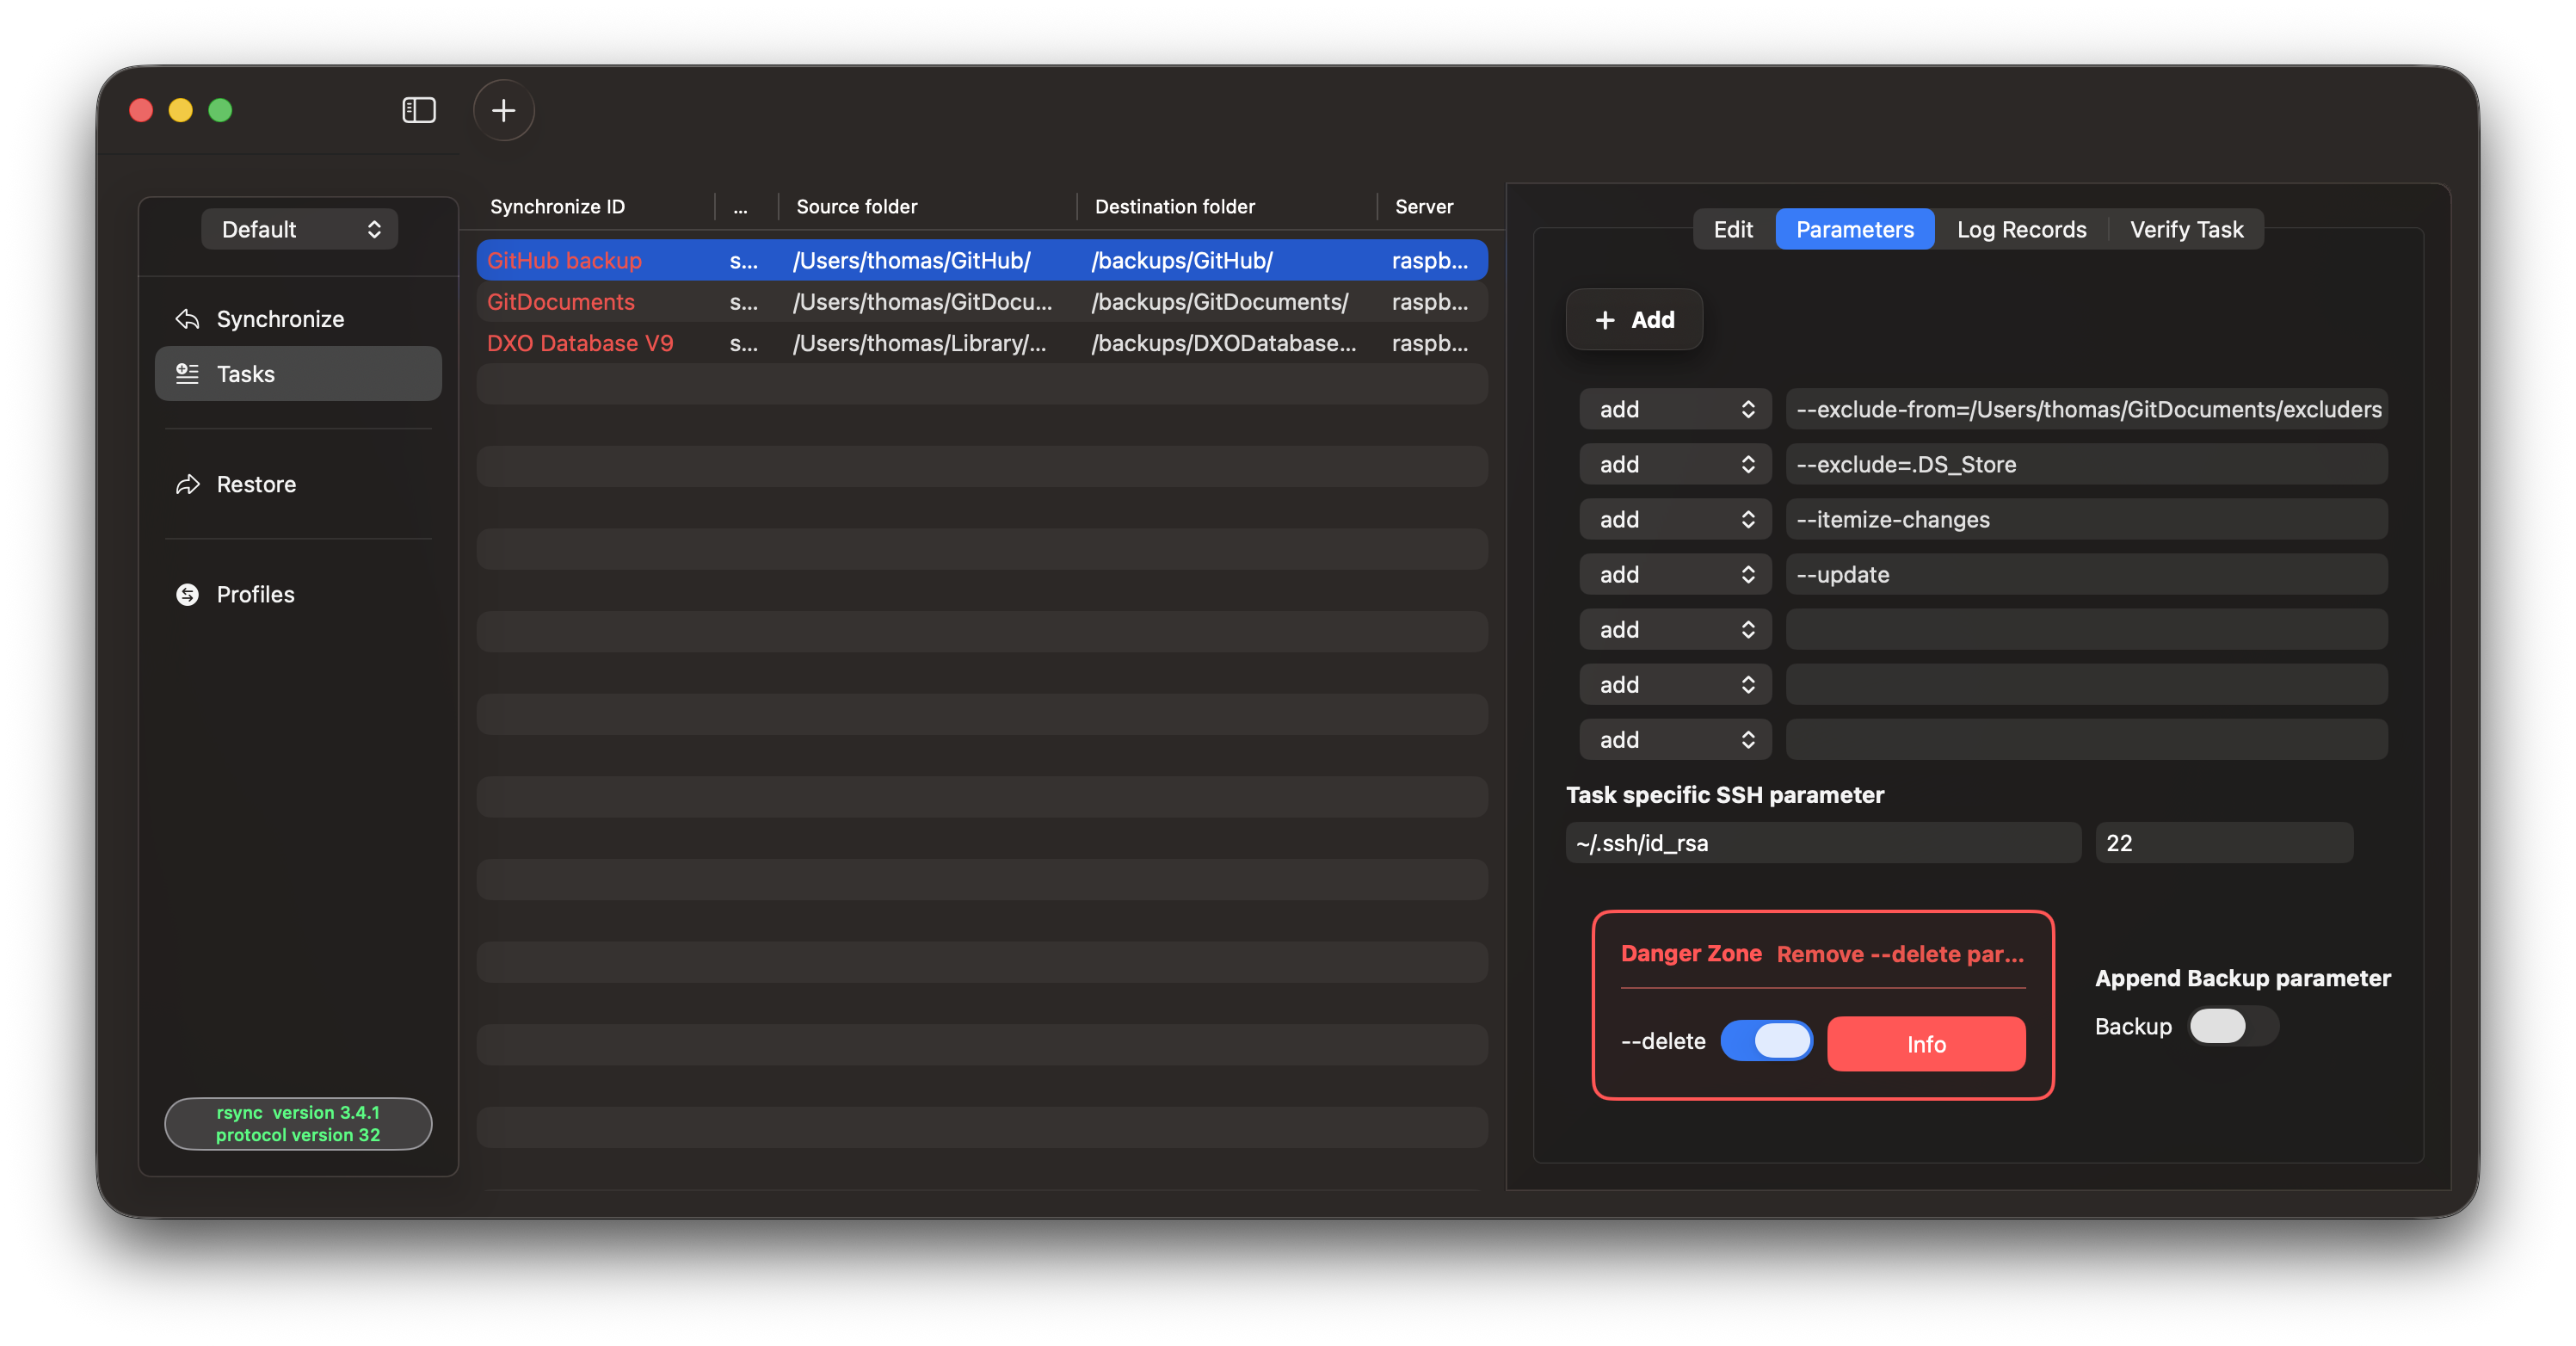
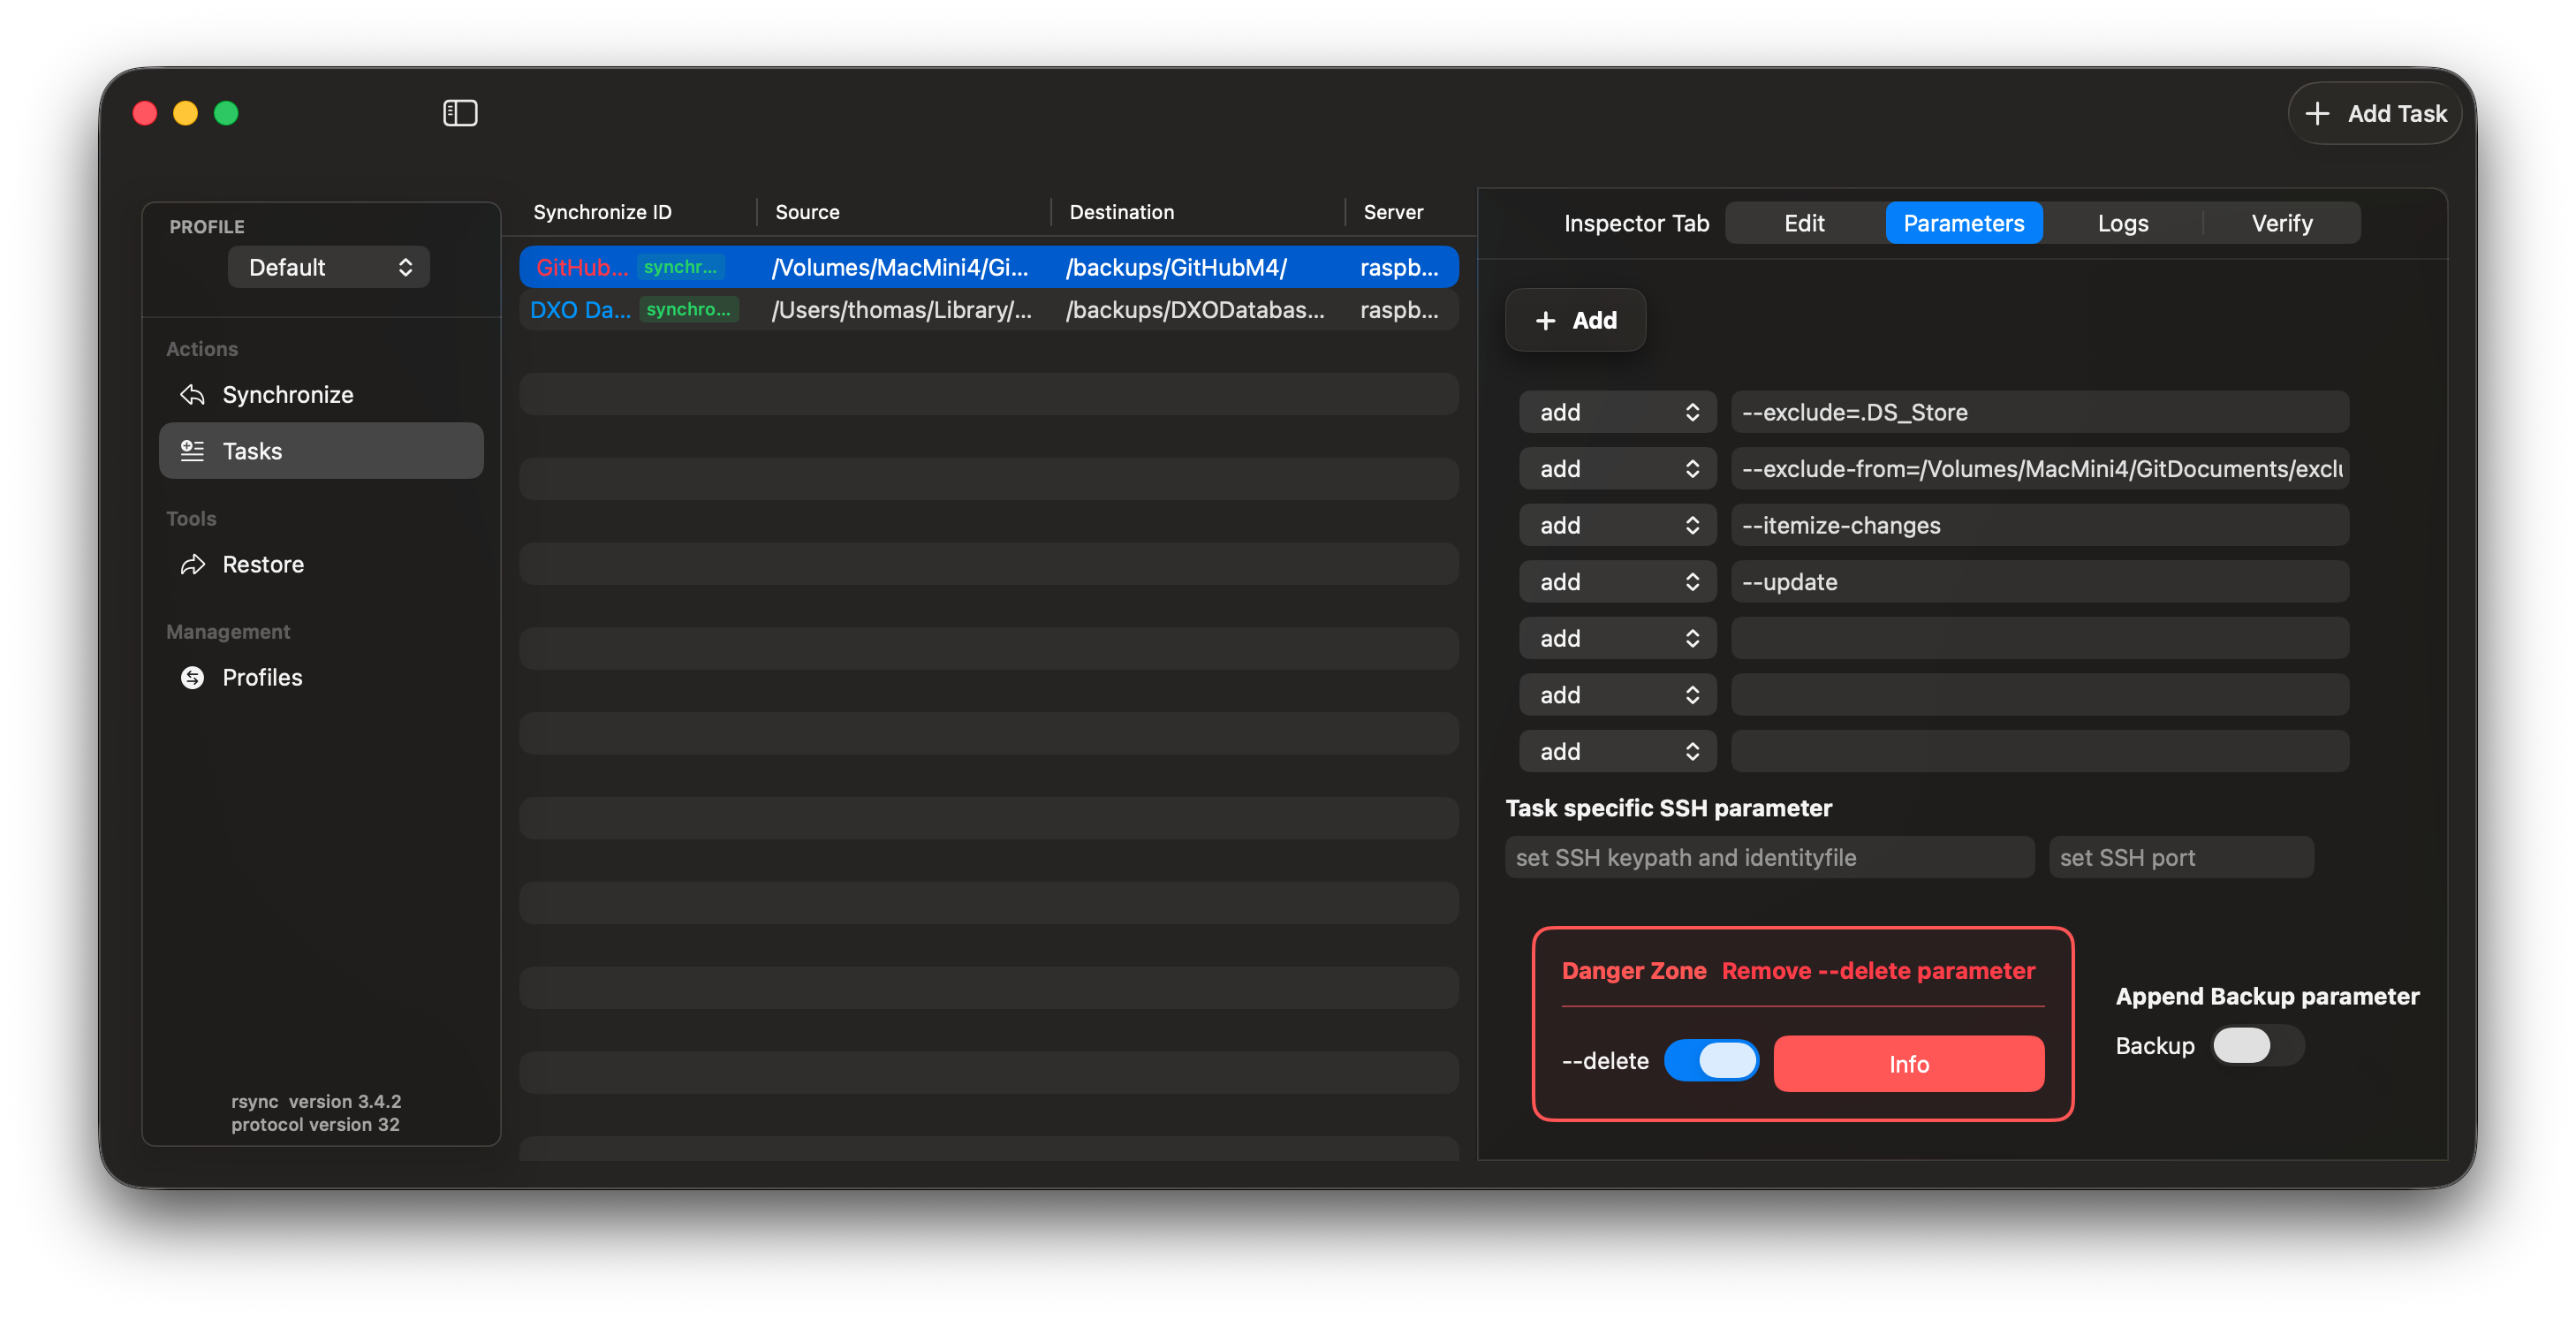
update

diff --git a/content/en/docs/getting-started/important.md b/content/en/docs/getting-started/important.md
@@ -53,7 +53,7 @@ Incorrect rsync parameters can delete data, and RsyncUI does not block such choi
 
 ### Temporary halt tasks
 
-You can temporarily halt a task. In the Synchronize view, right-click a task to halt it; the task keeps its type when resumed. Halted tasks display a red stop sign in the action column.
+You can temporarily halt a task. In the Synchronize view, right-click a task to toggle halt; the task keeps its type when resumed. Halted tasks are greyed out.
 
 {{< figure src="/images/important/halttask.png" alt="" position="center" style="border-radius: 8px;" >}}
 